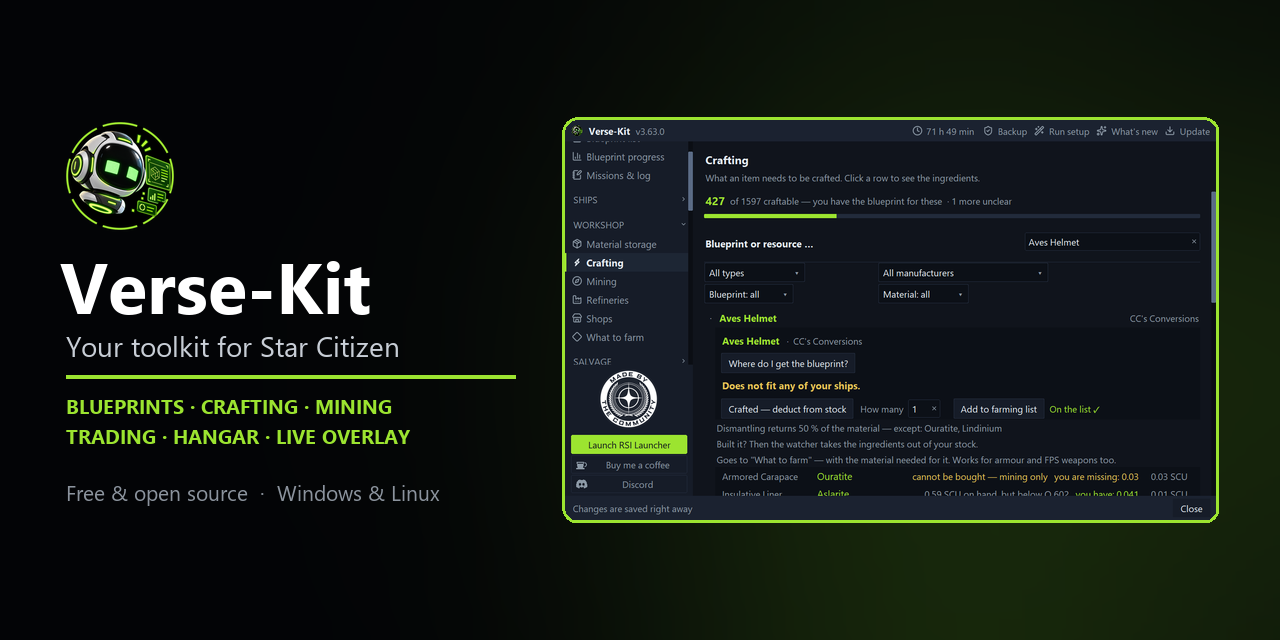
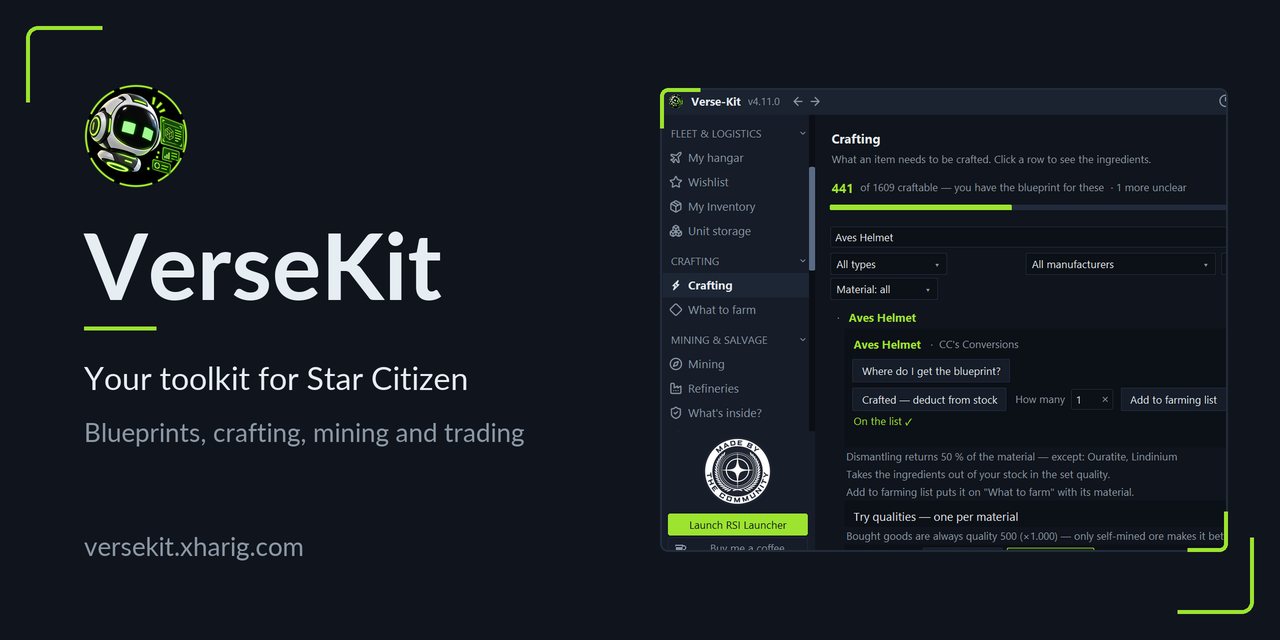
Link preview image in the site design
New 1280x640 preview images (German and English) in the shared site design:
dark base, neon corner brackets, logo, name and a framed screenshot.
Every page now carries og:image with width, height and alt text plus
twitter:card summary_large_image. The image address has a version number
so chat services drop the old cached picture.

diff --git a/en/herunterladen/index.html b/en/herunterladen/index.html
@@ -21,7 +21,10 @@
 <meta property="og:url" content="https://versekit.xharig.com/en/herunterladen/">
 <meta property="og:title" content="Download VerseKit: free for Windows and Linux">
 <meta property="og:description" content="Installer for Windows, AppImage for Linux, ready in three steps.">
-<meta property="og:image" content="https://versekit.xharig.com/assets/social-preview-en.png">
+<meta property="og:image" content="https://versekit.xharig.com/assets/social-preview-en.png?v=2">
+<meta property="og:image:width" content="1280">
+<meta property="og:image:height" content="640">
+<meta property="og:image:alt" content="VerseKit, your toolkit for Star Citizen, next to its crafting page">
 <meta name="twitter:card" content="summary_large_image">
 <link rel="preload" href="../../assets/schrift/xharig-sans-400.woff2" as="font" type="font/woff2" crossorigin>
 <link rel="preload" href="../../assets/schrift/xharig-sans-700.woff2" as="font" type="font/woff2" crossorigin>

diff --git a/en/rundgang/index.html b/en/rundgang/index.html
@@ -21,7 +21,10 @@
 <meta property="og:url" content="https://versekit.xharig.com/en/rundgang/">
 <meta property="og:title" content="VerseKit tour: every page of the Star Citizen tool">
 <meta property="og:description" content="Click through VerseKit with example data before you download it.">
-<meta property="og:image" content="https://versekit.xharig.com/assets/social-preview-en.png">
+<meta property="og:image" content="https://versekit.xharig.com/assets/social-preview-en.png?v=2">
+<meta property="og:image:width" content="1280">
+<meta property="og:image:height" content="640">
+<meta property="og:image:alt" content="VerseKit, your toolkit for Star Citizen, next to its crafting page">
 <meta name="twitter:card" content="summary_large_image">
 <link rel="preload" href="../../assets/schrift/xharig-sans-400.woff2" as="font" type="font/woff2" crossorigin>
 <link rel="preload" href="../../assets/schrift/xharig-sans-700.woff2" as="font" type="font/woff2" crossorigin>

diff --git a/en/fragen/index.html b/en/fragen/index.html
@@ -21,7 +21,10 @@
 <meta property="og:url" content="https://versekit.xharig.com/en/fragen/">
 <meta property="og:title" content="VerseKit FAQ and troubleshooting">
 <meta property="og:description" content="Answers about VerseKit for Star Citizen, and help when something does not work.">
-<meta property="og:image" content="https://versekit.xharig.com/assets/social-preview-en.png">
+<meta property="og:image" content="https://versekit.xharig.com/assets/social-preview-en.png?v=2">
+<meta property="og:image:width" content="1280">
+<meta property="og:image:height" content="640">
+<meta property="og:image:alt" content="VerseKit, your toolkit for Star Citizen, next to its crafting page">
 <meta name="twitter:card" content="summary_large_image">
 <link rel="preload" href="../../assets/schrift/xharig-sans-400.woff2" as="font" type="font/woff2" crossorigin>
 <link rel="preload" href="../../assets/schrift/xharig-sans-700.woff2" as="font" type="font/woff2" crossorigin>

diff --git a/herunterladen/index.html b/herunterladen/index.html
@@ -20,7 +20,10 @@
 <meta property="og:url" content="https://versekit.xharig.com/herunterladen/">
 <meta property="og:title" content="Download VerseKit: free for Windows and Linux">
 <meta property="og:description" content="Installer for Windows, AppImage for Linux, ready in three steps.">
-<meta property="og:image" content="https://versekit.xharig.com/assets/social-preview-en.png">
+<meta property="og:image" content="https://versekit.xharig.com/assets/social-preview-en.png?v=2">
+<meta property="og:image:width" content="1280">
+<meta property="og:image:height" content="640">
+<meta property="og:image:alt" content="VerseKit, your toolkit for Star Citizen, next to its crafting page">
 <meta name="twitter:card" content="summary_large_image">
 <link rel="preload" href="../assets/schrift/xharig-sans-400.woff2" as="font" type="font/woff2" crossorigin>
 <link rel="preload" href="../assets/schrift/xharig-sans-700.woff2" as="font" type="font/woff2" crossorigin>

diff --git a/rundgang/index.html b/rundgang/index.html
@@ -20,7 +20,10 @@
 <meta property="og:url" content="https://versekit.xharig.com/rundgang/">
 <meta property="og:title" content="VerseKit tour: every page of the Star Citizen tool">
 <meta property="og:description" content="Click through VerseKit with example data before you download it.">
-<meta property="og:image" content="https://versekit.xharig.com/assets/social-preview-en.png">
+<meta property="og:image" content="https://versekit.xharig.com/assets/social-preview-en.png?v=2">
+<meta property="og:image:width" content="1280">
+<meta property="og:image:height" content="640">
+<meta property="og:image:alt" content="VerseKit, your toolkit for Star Citizen, next to its crafting page">
 <meta name="twitter:card" content="summary_large_image">
 <link rel="preload" href="../assets/schrift/xharig-sans-400.woff2" as="font" type="font/woff2" crossorigin>
 <link rel="preload" href="../assets/schrift/xharig-sans-700.woff2" as="font" type="font/woff2" crossorigin>

diff --git a/fragen/index.html b/fragen/index.html
@@ -20,7 +20,10 @@
 <meta property="og:url" content="https://versekit.xharig.com/fragen/">
 <meta property="og:title" content="VerseKit FAQ and troubleshooting">
 <meta property="og:description" content="Answers about VerseKit for Star Citizen, and help when something does not work.">
-<meta property="og:image" content="https://versekit.xharig.com/assets/social-preview-en.png">
+<meta property="og:image" content="https://versekit.xharig.com/assets/social-preview-en.png?v=2">
+<meta property="og:image:width" content="1280">
+<meta property="og:image:height" content="640">
+<meta property="og:image:alt" content="VerseKit, your toolkit for Star Citizen, next to its crafting page">
 <meta name="twitter:card" content="summary_large_image">
 <link rel="preload" href="../assets/schrift/xharig-sans-400.woff2" as="font" type="font/woff2" crossorigin>
 <link rel="preload" href="../assets/schrift/xharig-sans-700.woff2" as="font" type="font/woff2" crossorigin>

diff --git a/en/aenderungen/index.html b/en/aenderungen/index.html
@@ -21,7 +21,10 @@
 <meta property="og:url" content="https://versekit.xharig.com/en/aenderungen/">
 <meta property="og:title" content="VerseKit changelog">
 <meta property="og:description" content="Every version of VerseKit since the first, searchable.">
-<meta property="og:image" content="https://versekit.xharig.com/assets/social-preview-en.png">
+<meta property="og:image" content="https://versekit.xharig.com/assets/social-preview-en.png?v=2">
+<meta property="og:image:width" content="1280">
+<meta property="og:image:height" content="640">
+<meta property="og:image:alt" content="VerseKit, your toolkit for Star Citizen, next to its crafting page">
 <meta name="twitter:card" content="summary_large_image">
 <link rel="preload" href="../../assets/schrift/xharig-sans-400.woff2" as="font" type="font/woff2" crossorigin>
 <link rel="preload" href="../../assets/schrift/xharig-sans-700.woff2" as="font" type="font/woff2" crossorigin>

diff --git a/aenderungen/index.html b/aenderungen/index.html
@@ -20,7 +20,10 @@
 <meta property="og:url" content="https://versekit.xharig.com/aenderungen/">
 <meta property="og:title" content="VerseKit changelog">
 <meta property="og:description" content="Every version of VerseKit since the first, searchable.">
-<meta property="og:image" content="https://versekit.xharig.com/assets/social-preview-en.png">
+<meta property="og:image" content="https://versekit.xharig.com/assets/social-preview-en.png?v=2">
+<meta property="og:image:width" content="1280">
+<meta property="og:image:height" content="640">
+<meta property="og:image:alt" content="VerseKit, your toolkit for Star Citizen, next to its crafting page">
 <meta name="twitter:card" content="summary_large_image">
 <link rel="preload" href="../assets/schrift/xharig-sans-400.woff2" as="font" type="font/woff2" crossorigin>
 <link rel="preload" href="../assets/schrift/xharig-sans-700.woff2" as="font" type="font/woff2" crossorigin>

diff --git a/en/index.html b/en/index.html
@@ -24,10 +24,10 @@
 <meta property="og:url" content="https://versekit.xharig.com/en/">
 <meta property="og:title" content="VerseKit: your toolkit for Star Citizen">
 <meta property="og:description" content="Blueprints, crafting, mining, trading and hangar, live while you play. Free and open source, Windows and Linux.">
-<meta property="og:image" content="https://versekit.xharig.com/assets/social-preview-en.png">
+<meta property="og:image" content="https://versekit.xharig.com/assets/social-preview-en.png?v=2">
 <meta property="og:image:width" content="1280">
 <meta property="og:image:height" content="640">
-<meta property="og:image:alt" content="VerseKit next to its crafting page">
+<meta property="og:image:alt" content="VerseKit, your toolkit for Star Citizen, next to its crafting page">
 <meta name="twitter:card" content="summary_large_image">
 <script type="application/ld+json">
 {

diff --git a/index.html b/index.html
@@ -23,10 +23,10 @@
 <meta property="og:url" content="https://versekit.xharig.com/">
 <meta property="og:title" content="VerseKit: your toolkit for Star Citizen">
 <meta property="og:description" content="Blueprints, crafting, mining, trading and hangar, live while you play. Free and open source, Windows and Linux.">
-<meta property="og:image" content="https://versekit.xharig.com/assets/social-preview-en.png">
+<meta property="og:image" content="https://versekit.xharig.com/assets/social-preview-en.png?v=2">
 <meta property="og:image:width" content="1280">
 <meta property="og:image:height" content="640">
-<meta property="og:image:alt" content="VerseKit next to its crafting page">
+<meta property="og:image:alt" content="VerseKit, your toolkit for Star Citizen, next to its crafting page">
 <meta name="twitter:card" content="summary_large_image">
 <script type="application/ld+json">
 {
